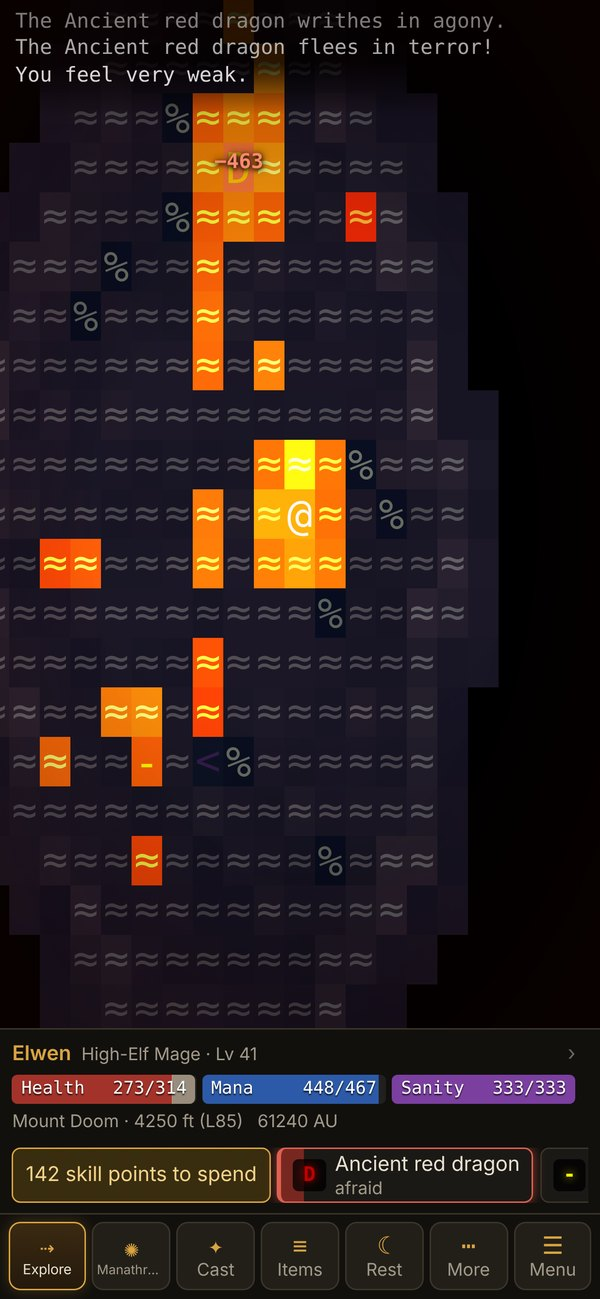
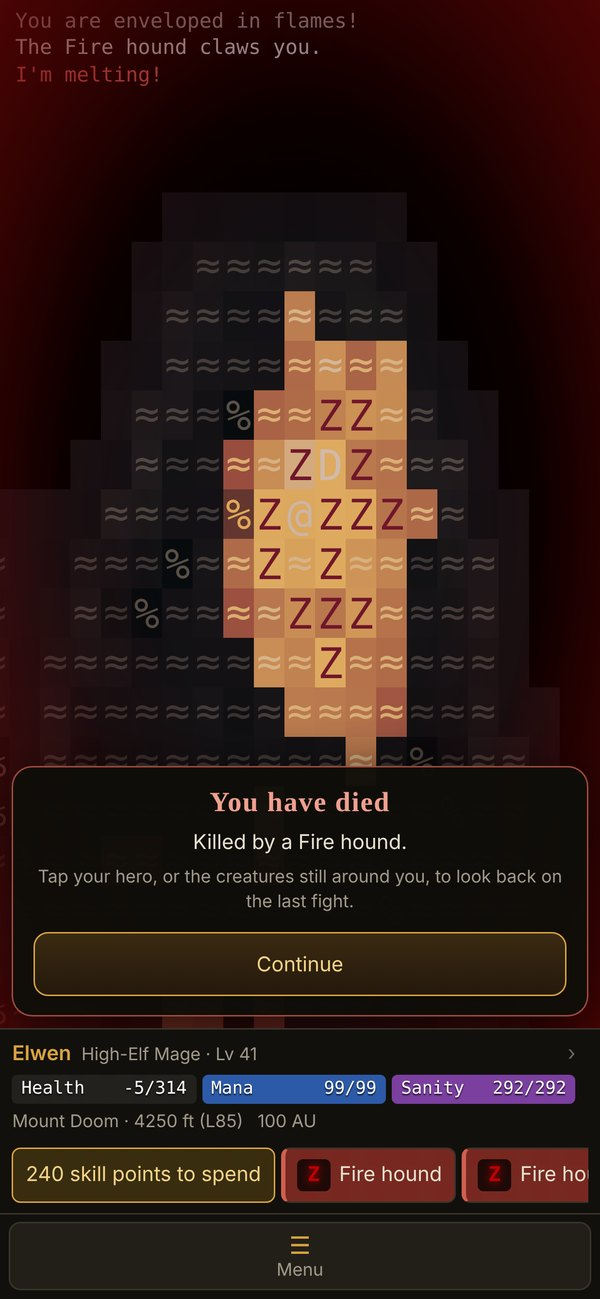
README: Bolg's fall earns Giant-slayer; a death on Mount Doom as the third fight
Claude-Session: https://claude.ai/code/session_015ZJzzAbFuYAoPX7JATyCMF

diff --git a/README.md b/README.md
@@ -42,13 +42,13 @@ Every level is generated fresh, every hero is different, and death is permanent.
   </tr>
   <tr>
     <td width="33%"><img src="docs/images/mirkwood.jpg" alt="Mirkwood: a level 12 Hobbit Warrior fights off a nest of giant spiders among the trees — Unstoppable, 8 foes in quick succession" /></td>
-    <td width="33%"><img src="docs/images/moria.jpg" alt="Moria: a level 34 Dwarf Warrior surrounded by an army of orcs slays Bolg, Son of Azog — a legend falls" /></td>
-    <td width="33%"><img src="docs/images/doom.jpg" alt="Mount Doom: a level 41 High-Elf Mage's Manathrust hits an Ancient red dragon for 463 across the lava, and it flees in terror" /></td>
+    <td width="33%"><img src="docs/images/moria.jpg" alt="Moria: a level 34 Dwarf Warrior hemmed in by a horde of orcs slays Bolg, Son of Azog — a legend falls, and the Giant-slayer deed is earned" /></td>
+    <td width="33%"><img src="docs/images/doom.jpg" alt="Mount Doom: a level 41 High-Elf Mage, ringed by a pack of fire hounds on the lava, is enveloped in flames — You have died, killed by a Fire hound" /></td>
   </tr>
   <tr>
     <td align="center"><sub><b>Mirkwood</b> · a Hobbit at level 12 cuts through a spider nest</sub></td>
-    <td align="center"><sub><b>Moria</b> · a Dwarf at level 34 fells Bolg amid an orc army</sub></td>
-    <td align="center"><sub><b>Mount Doom</b> · a High-Elf mage at level 41 puts a dragon to flight</sub></td>
+    <td align="center"><sub><b>Moria</b> · a Dwarf at level 34 fells Bolg amid an orc horde</sub></td>
+    <td align="center"><sub><b>Mount Doom</b> · and every tale ends somewhere</sub></td>
   </tr>
 </table>
 
